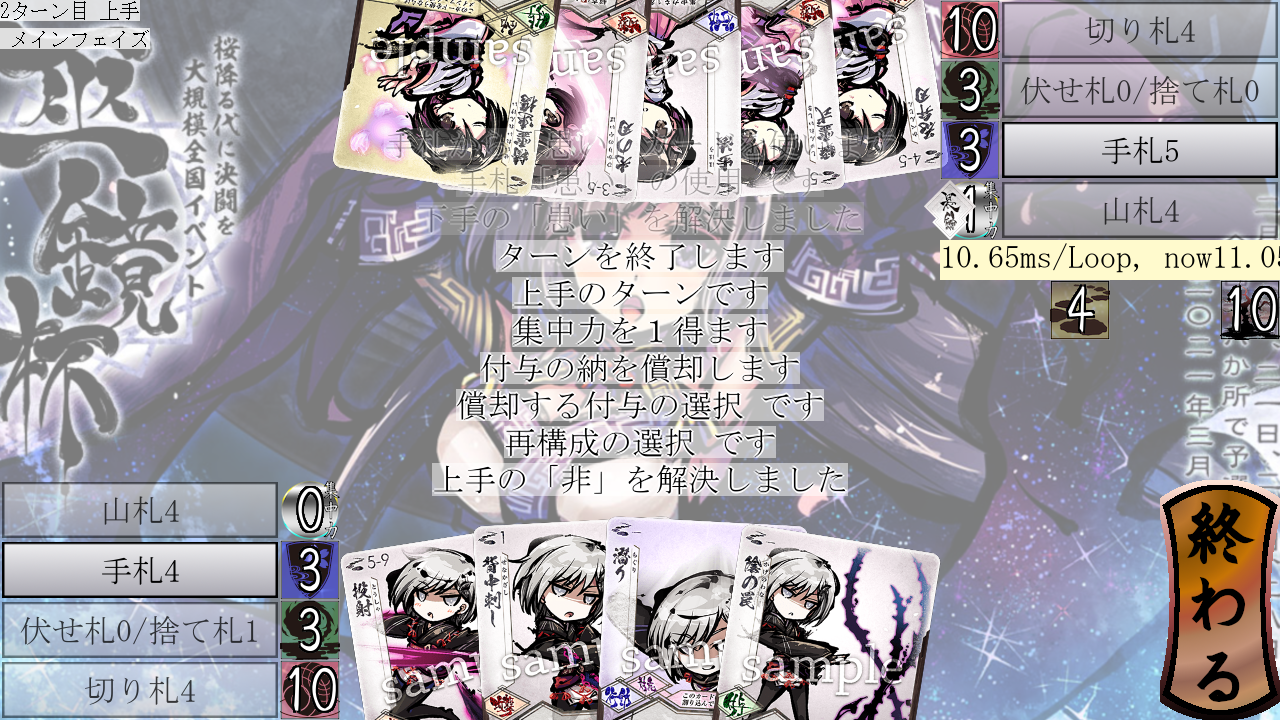
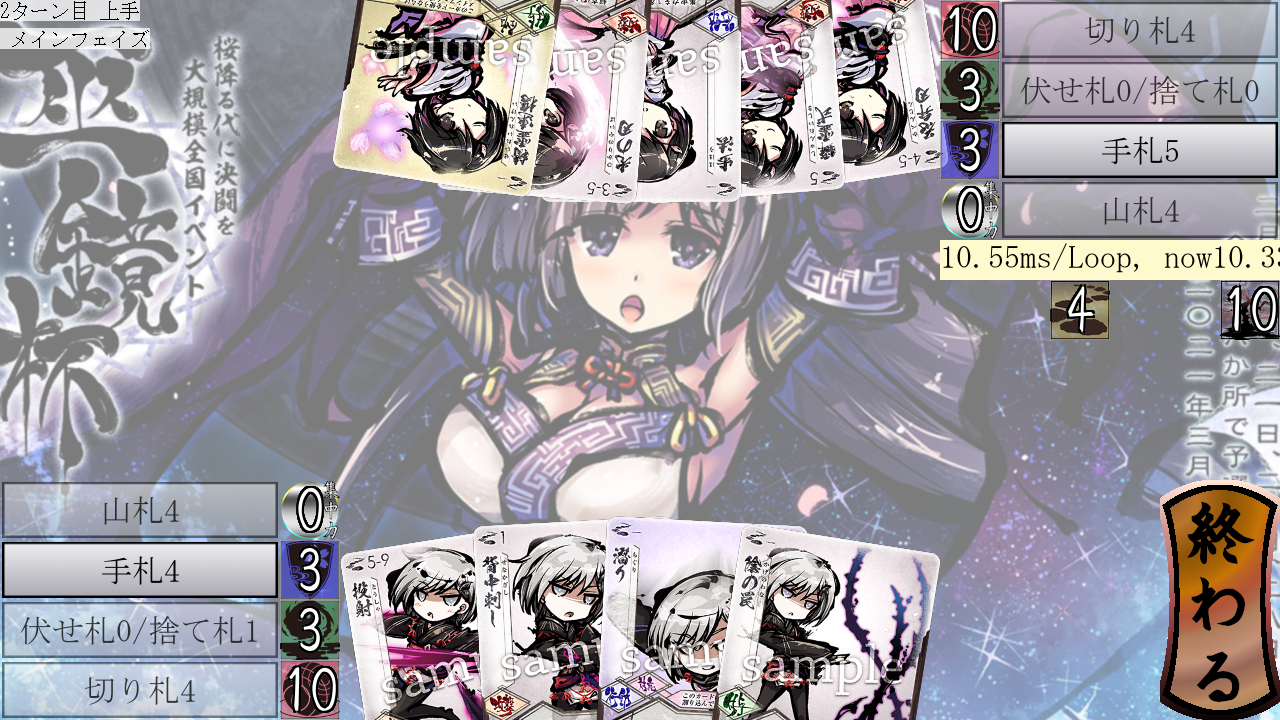
J496:start_phase._add_syuutyuuに畏縮の解除を加筆

Changed region(s): [[0.3125, 0.1528, 0.7188, 0.7028], [0.7188, 0.2444, 0.7812, 0.3361], [0.9375, 0.3361, 1.0, 0.3667]]

diff --git a/mod/ol/turns_progression/start_phase.py b/mod/ol/turns_progression/start_phase.py
@@ -1,6 +1,7 @@
 #                 20                  40                  60                 79
 from mod.const import POP_START_PHASE_FINISHED, POP_OPEN, POP_HUYO_ELAPSED,\
-    POP_RESHUFFLED, UC_ZYOGAI, UC_SYUUTYUU, side_name, SIMOTE, KAMITE
+    POP_RESHUFFLED, UC_ZYOGAI, UC_SYUUTYUU, side_name, SIMOTE, KAMITE,\
+    UC_ISYUKU
 from mod.classes import Callable, PopStat, Delivery, moderator, popup_message
 from mod.ol.remove_osame.remove_osame import RemoveOsame
 from mod.ol.reshuffle import reshuffle_layer
@@ -11,10 +12,20 @@ def _open(layer: PipelineLayer, stat: PopStat) -> None:
     layer.delivery.b_params.start_turn()
     layer.delivery.m_params(hoyuusya=SIMOTE).start_turn()
     layer.delivery.m_params(hoyuusya=KAMITE).start_turn()
-    layer.delivery.send_ouka_to_ryouiki(
-        hoyuusya=layer.hoyuusya, from_mine=False, from_code=UC_ZYOGAI, to_mine=True, to_code=UC_SYUUTYUU)
-    popup_message.add("集中力を１得ます")
+    _add_syuutyuu(layer=layer)
     moderator.append(RemoveOsame(delivery=layer.delivery, hoyuusya=layer.hoyuusya))
+
+def _add_syuutyuu(layer: PipelineLayer) -> None:
+    if layer.delivery.ouka_count(hoyuusya=layer.hoyuusya, is_mine=True,
+                                 utuwa_code=UC_ISYUKU) > 0:
+        popup_message.add("畏縮を解除します")
+        layer.delivery.send_ouka_to_ryouiki(hoyuusya=layer.hoyuusya, from_mine=
+            True, from_code=UC_ISYUKU, to_code=UC_ZYOGAI)
+    else:
+        popup_message.add("集中力を１得ます")
+        layer.delivery.send_ouka_to_ryouiki(
+            hoyuusya=layer.hoyuusya, from_mine=False, from_code=UC_ZYOGAI,
+            to_mine=True, to_code=UC_SYUUTYUU)
 
 def _huyo_elapsed(layer: PipelineLayer, stat: PopStat) -> None:
     moderator.append(reshuffle_layer(delivery=layer.delivery, hoyuusya=layer.hoyuusya))
